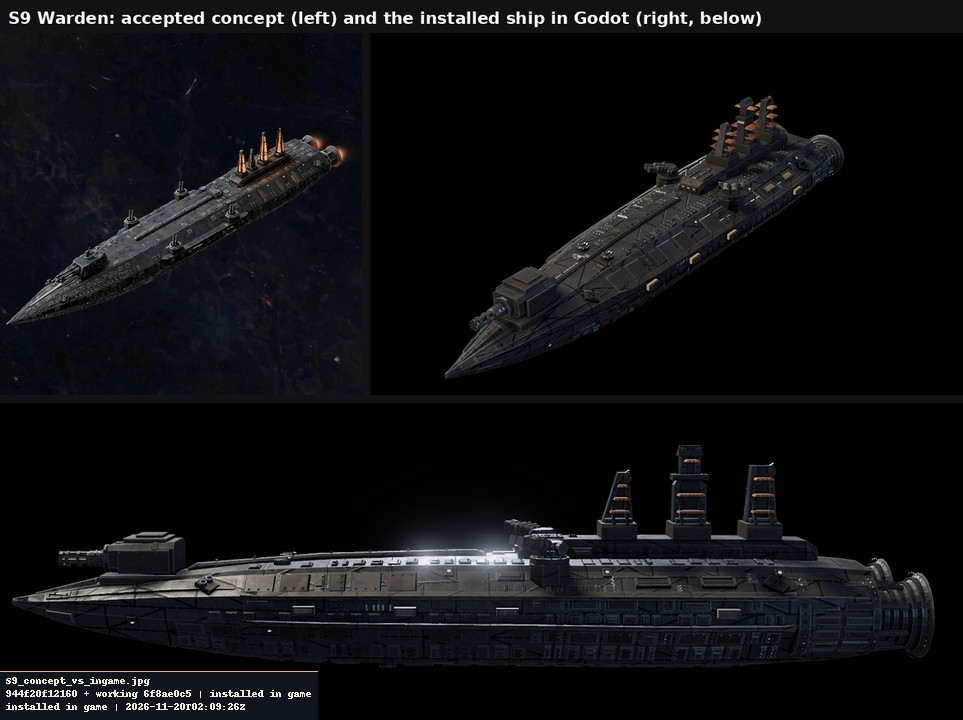
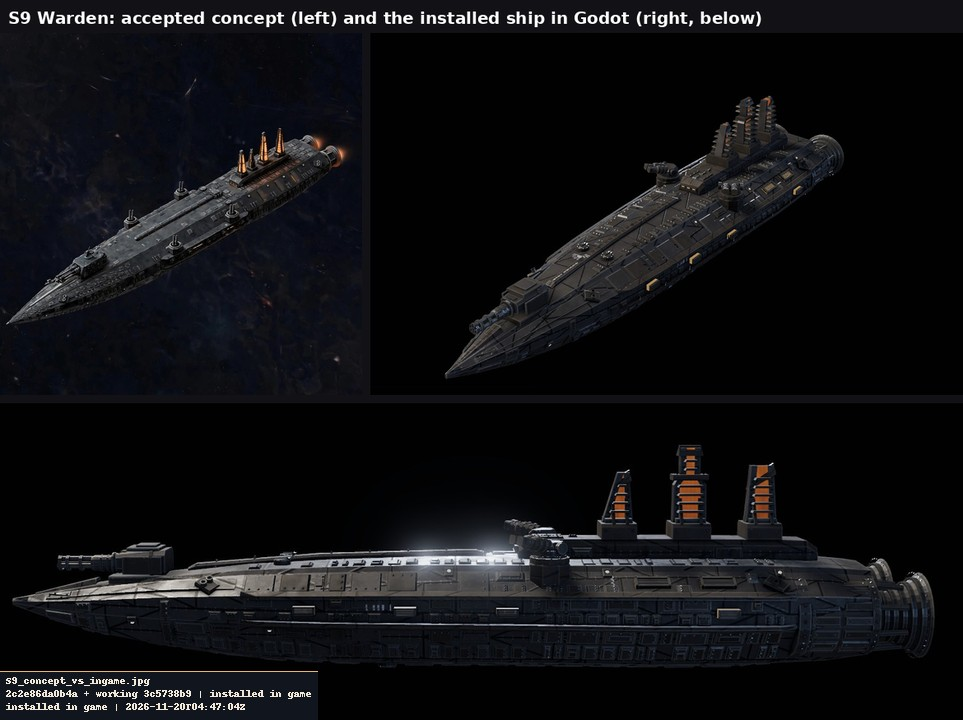
Warden S9 round 3: in-game before and after pictures (ember spires, bow gun) and the battle bench and concept pictures from the PC run 1156_shipjob5_R3 (Refs #1156)
Claude-Session: https://claude.ai/code/session_01TX7Q23iSzzfoLYcRN3fPcp

diff --git a/docs/shots/ships/S9/README.md b/docs/shots/ships/S9/README.md
@@ -1,7 +1,7 @@
 # S9 Warden (V14_23): shots (issue 1156)
 
 - `S9_concept_vs_ingame.jpg`: the accepted concept beside the installed ship in Godot (three-quarter and side), from the PC
-  run 1156_shipjob4 (done PASS, 19:56 CT Nov 19, commit 944f20f1; files on board/pc-out-1119zo).
+  run 1156_shipjob5_R3 (done PASS, 21:55 CT Nov 19, commit 2c2e86da; files on board/pc-out-1119zze).
 - `S9_battle_bench.jpg`: the battle camera (near set) from the same run, with the same frame enlarged 4x so the casemate,
   the flak pair and the spires can be seen.
 - `S9_blob_sweep.jpg`: the nine-cell sweep (bow, midship, stern from top, side and below) beside the concept regions, from the
@@ -9,3 +9,7 @@
 - `S9_r1_concept_vs_blockout.jpg`, `S9_r2_concept_vs_blockout.jpg`: the blockout rounds the Board looked at before stage 5.
 - `S9_break_*.jpg`: one render per break line (B-1 both faces, B-2 peel from below, B-3 spire root, B-4 spearhead), decks and
   frames showing, never a hollow.
+- `S9_r3_ember_spires_before_after.jpg`, `S9_r3_bow_gun_before_after.jpg`: Ryan's round 3 (Nov 20, "fix ember glow and the
+  boxy gun"), in game, the 1156_shipjob4 run (944f20f1) beside the 1156_shipjob5_R3 run (2c2e86da). The spire heat core now
+  glows under iron ribs (the shared radiator glow='slats'); the casemate is a quarter smaller with a steeper glacis.
+- `S9_r3_spires_and_gun_before_after.jpg`: the cloud paint proof of the same change (1024 bake), made before the PC run.
